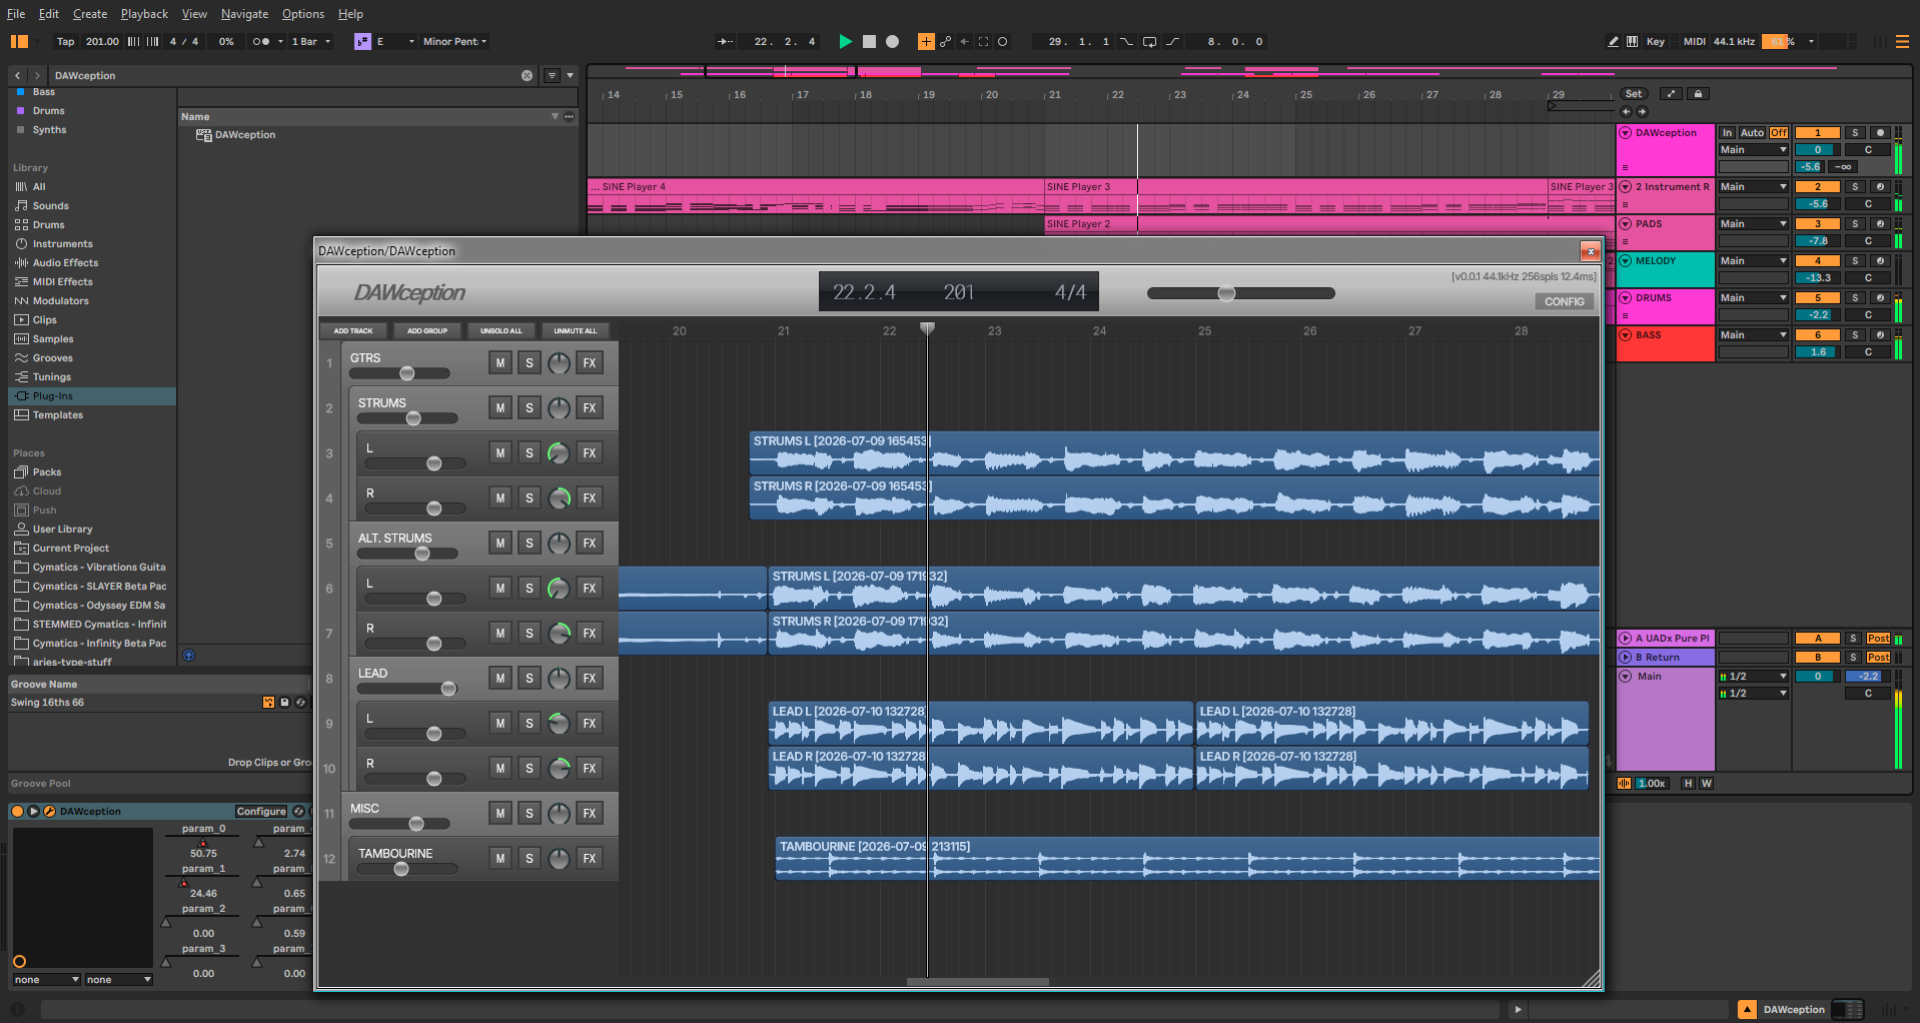
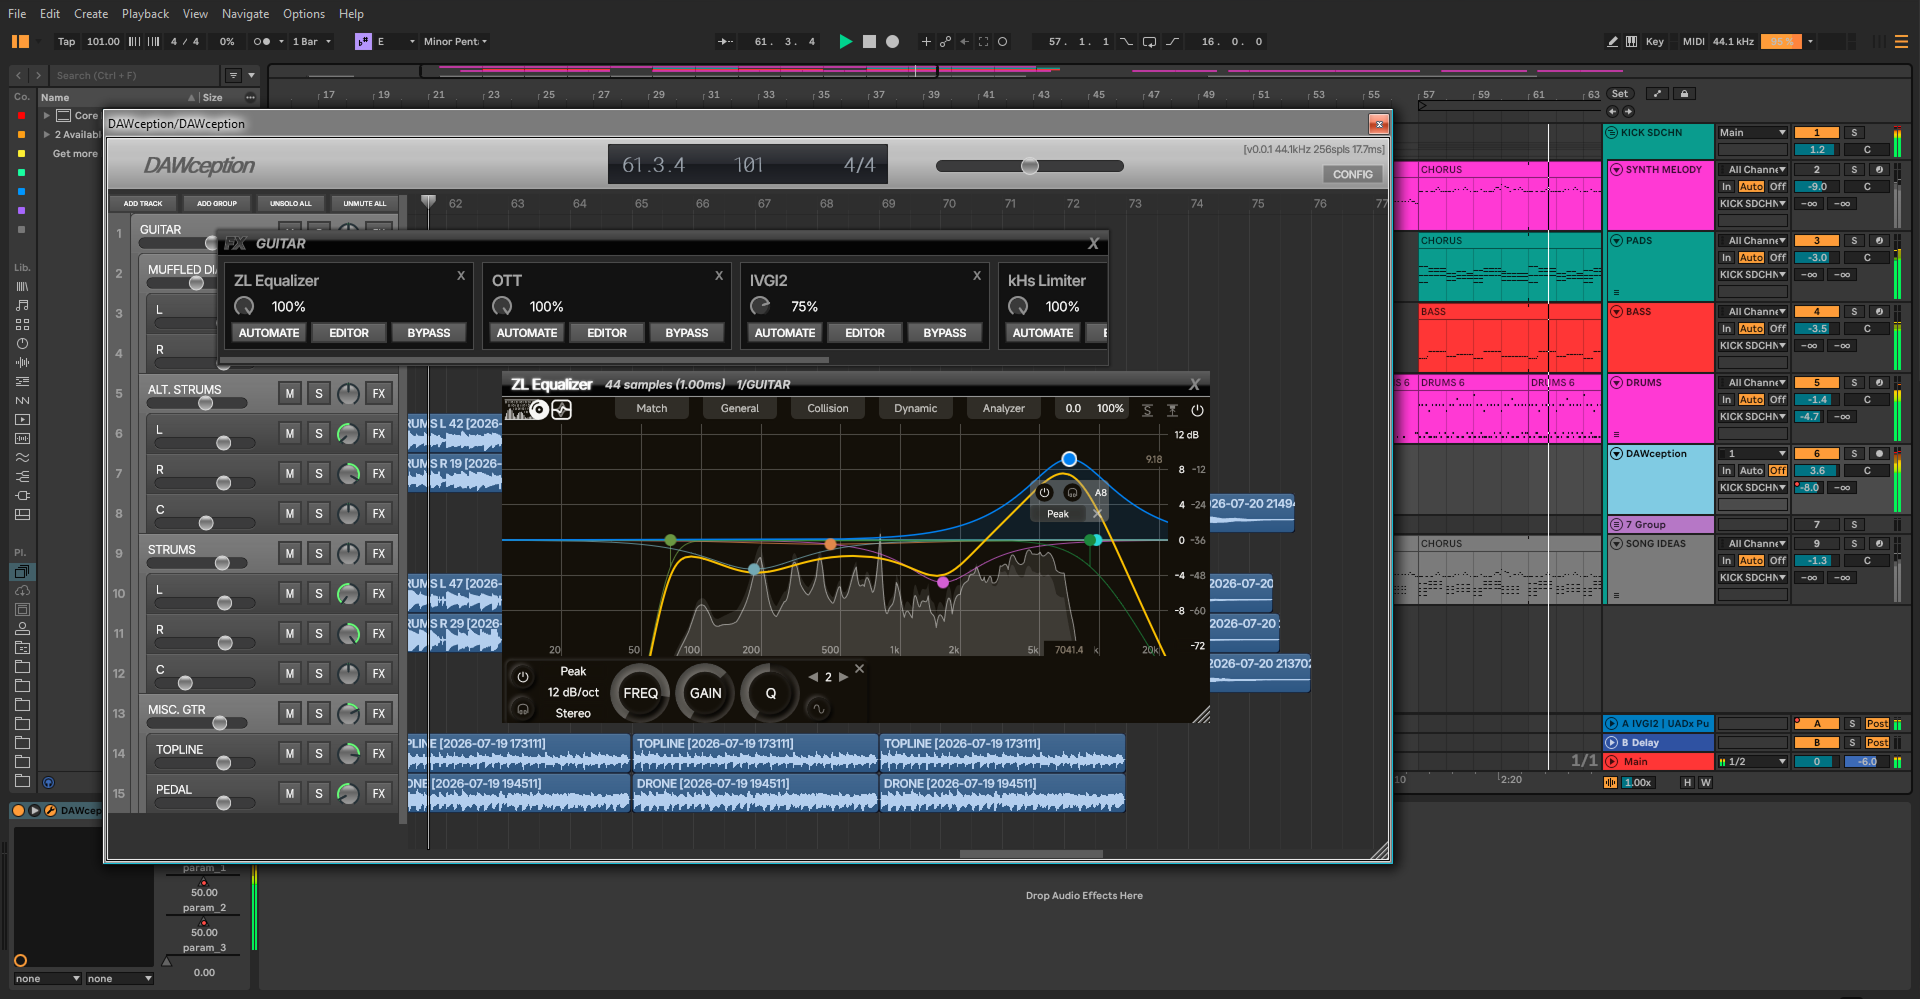
DAWception make grill bg darker

diff --git a/dawception/style.scss b/dawception/style.scss
@@ -186,7 +186,7 @@ html {
     height: 100%;
 
     transform: scale(3.5, 2.4) translate(0, 30px);
-    background: radial-gradient(circle at center, rgba(255, 255, 255, 0.3) 0, rgba(0, 0, 0, 0) 40%, rgba(0, 0, 0, 0) 100%);
+    background: radial-gradient(circle at center, rgba(255, 255, 255, 0.2) 0, rgba(0, 0, 0, 0) 40%, rgba(0, 0, 0, 0) 100%);
 }
 
   .show-only-on-small-screens { display: none; }

diff --git a/dawception/style.css b/dawception/style.css
@@ -136,7 +136,7 @@ html {
   width: 100%;
   height: 100%;
   transform: scale(3.5, 2.4) translate(0, 30px);
-  background: radial-gradient(circle at center, rgba(255, 255, 255, 0.3) 0, rgba(0, 0, 0, 0) 40%, rgba(0, 0, 0, 0) 100%);
+  background: radial-gradient(circle at center, rgba(255, 255, 255, 0.2) 0, rgba(0, 0, 0, 0) 40%, rgba(0, 0, 0, 0) 100%);
 }
 
 .show-only-on-small-screens {
